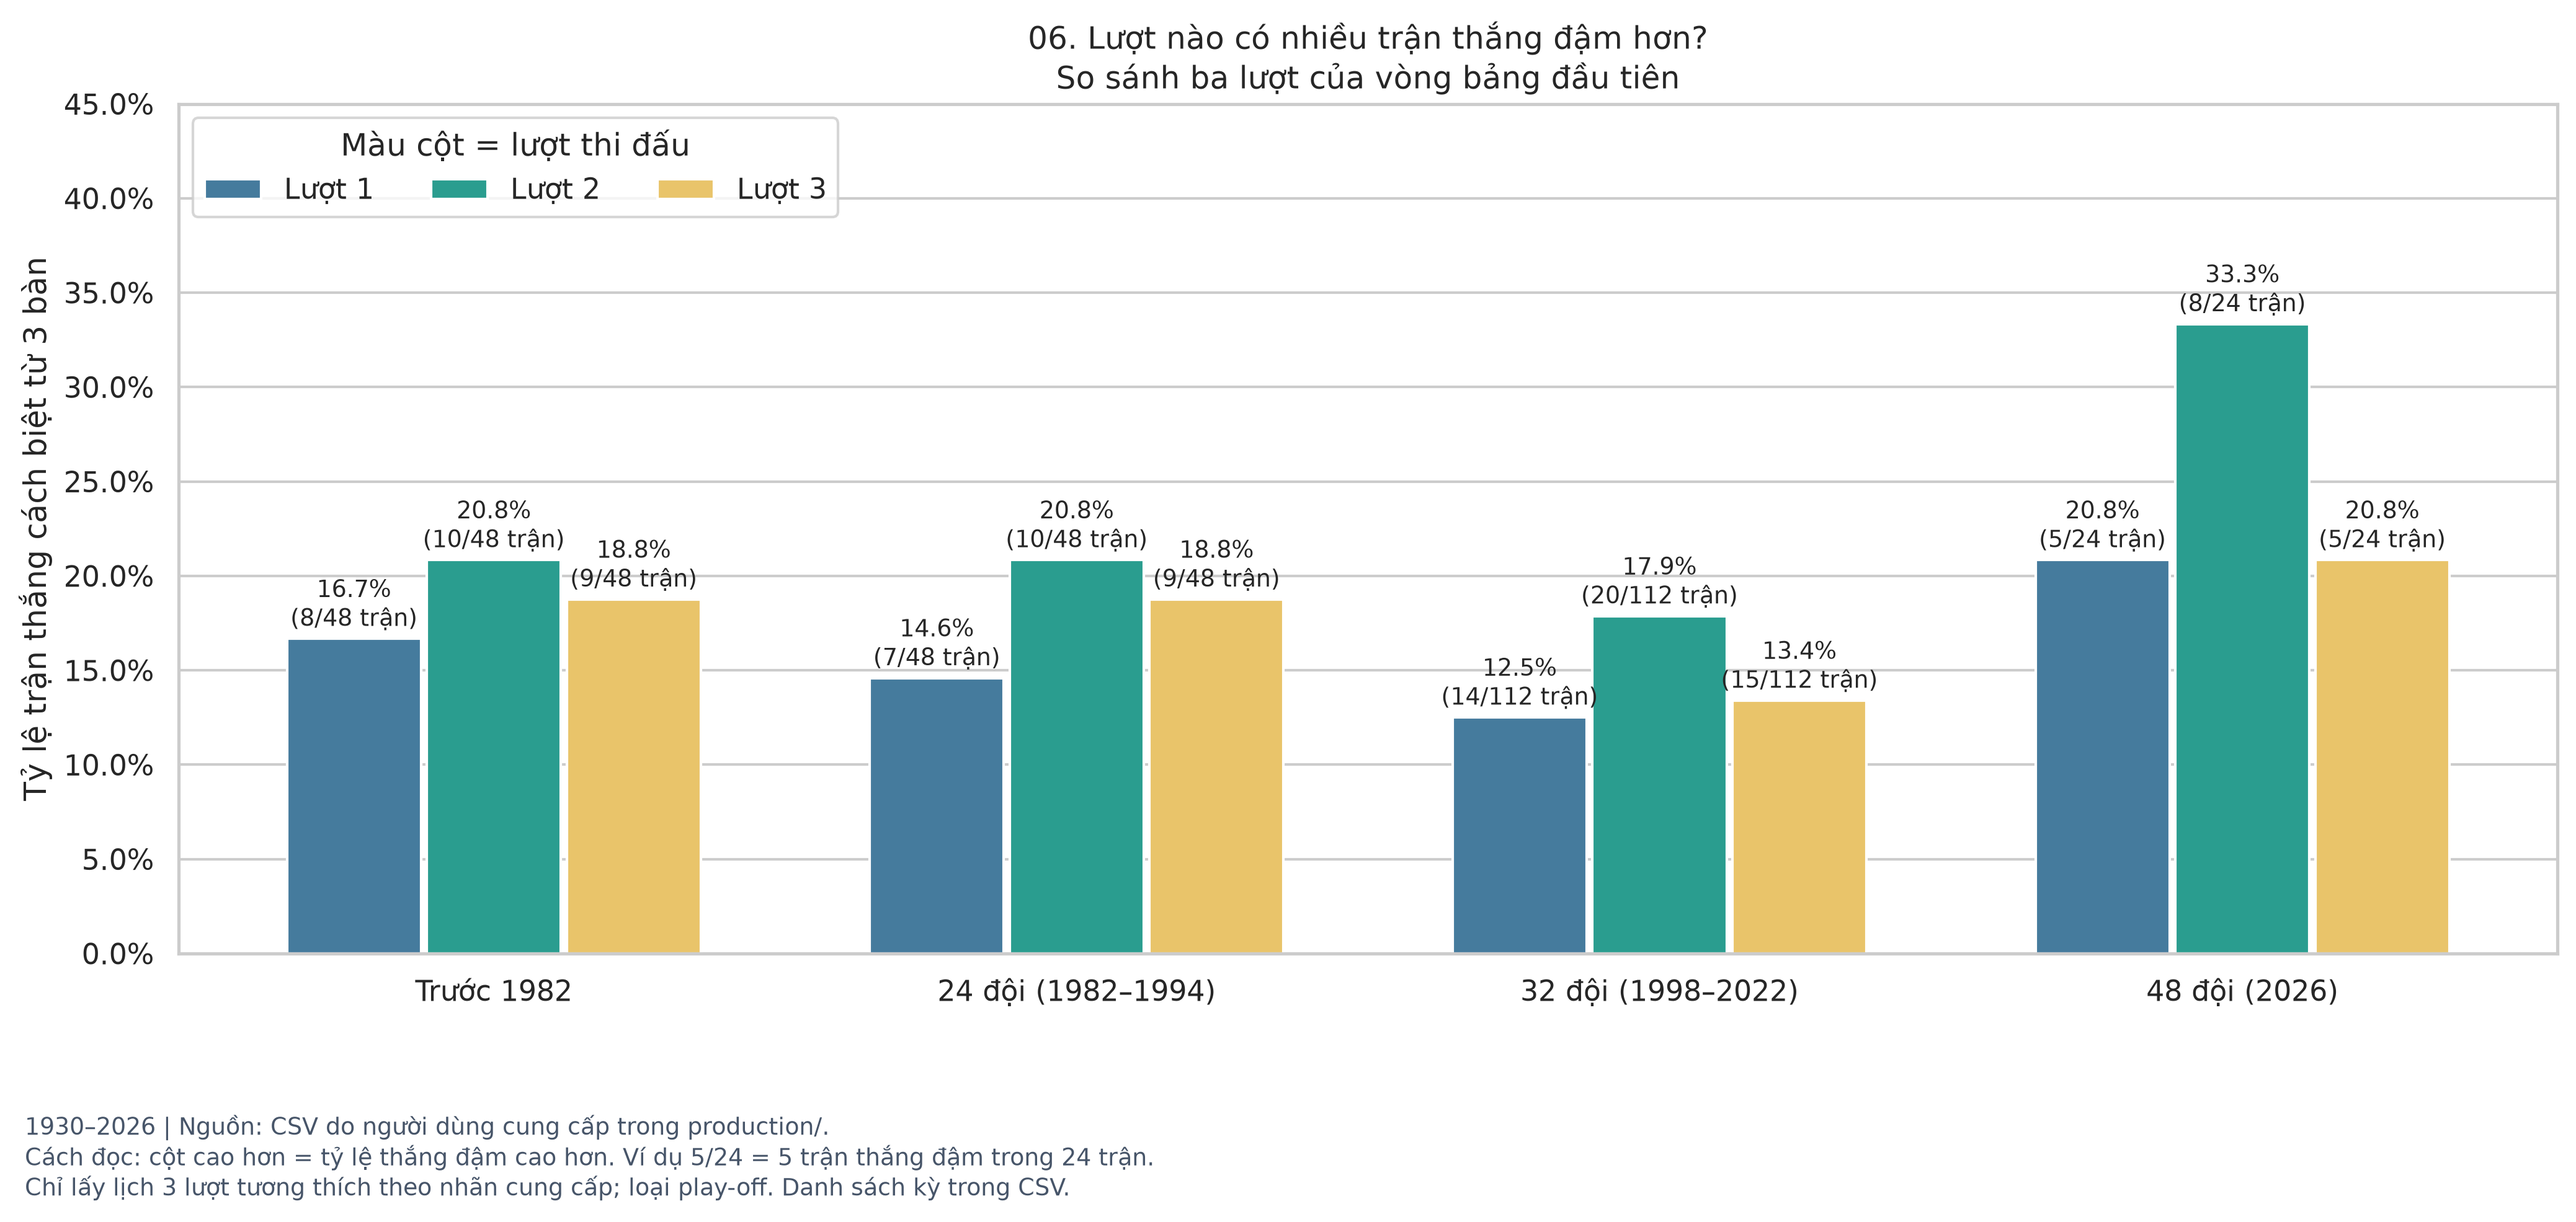
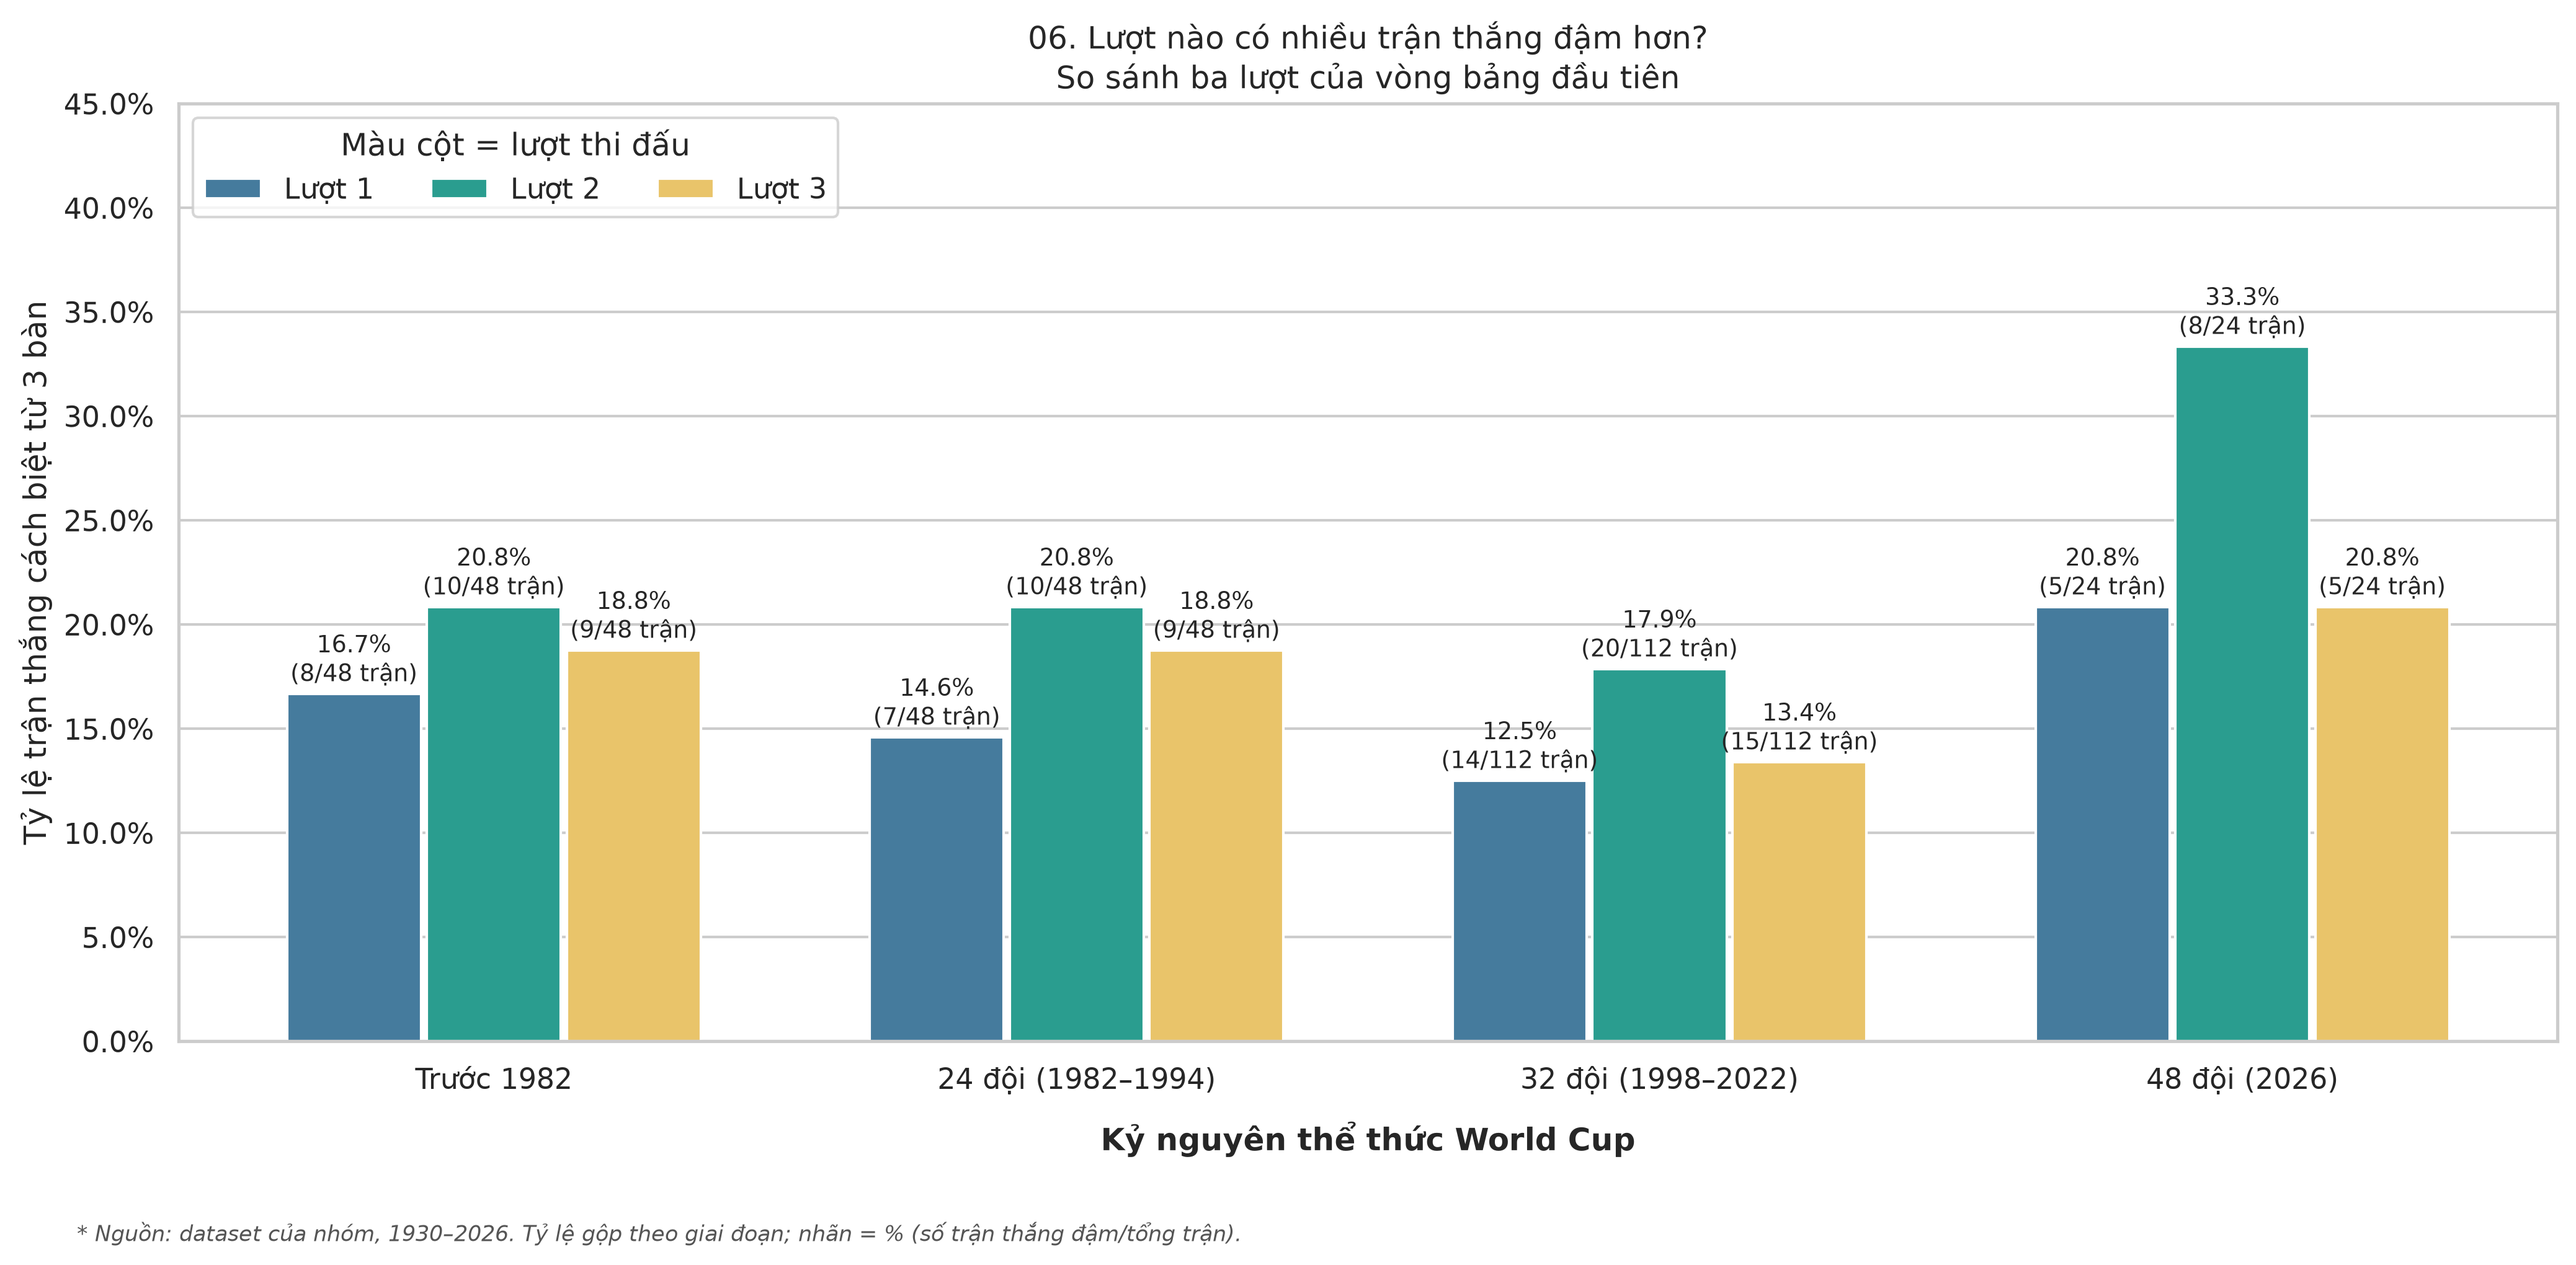
update visualization charts

diff --git a/visualization/visualize_charts_6_to_10.py b/visualization/visualize_charts_6_to_10.py
@@ -50,10 +50,20 @@ def write_table(data, name):
 
 
 def save(fig, name, note):
-    """Thêm ghi chú phạm vi/nguồn rồi xuất ảnh PNG 300 DPI."""
-    fig.text(.015, .015, '1930–2026 | Nguồn: CSV do người dùng cung cấp trong production/.\n' + note,
-             fontsize=9, va='bottom', color='#475569')
-    fig.tight_layout(rect=(0, .14, 1, .95))
+    """Chú thích một dòng theo kiểu hình 01–05; giải thích dài xem danh mục."""
+    short_notes = {
+        '06_thang_dam_theo_luot': 'Tỷ lệ gộp theo giai đoạn; nhãn = % (số trận thắng đậm/tổng trận).',
+        '07_elo_va_cach_biet': 'Elo trước giải; mỗi chấm là một trận, đường đen là trung vị theo nhóm Elo.',
+        '08_cach_phan_dinh_knockout': 'Loại tranh hạng ba và cặp đá lại; 1950 không có knockout, 1974/1978 chỉ có chung kết.',
+        '09_heatmap_qua_90_phut': 'Ô xám: không có vòng/mẫu hợp lệ; 1950 không có knockout. Nhãn = % và số trận/tổng trận.',
+        '10_cua_duoi_di_tiep': 'Cửa dưới: thấp hơn ≥100 Elo trước giải; mỗi cặp tính một lần, loại tranh hạng ba.',
+    }
+    for ax in fig.axes:
+        if ax.get_xlabel() == 'Năm tổ chức':
+            ax.set_xlabel('Năm diễn ra World Cup', fontsize=12, fontweight='bold', labelpad=9)
+    fig.tight_layout(rect=(0, .055, 1, .98))
+    fig.text(.035, .012, '* Nguồn: dataset của nhóm, 1930–2026. ' + short_notes.get(name, note.replace('\n', ' ')),
+             fontsize=8.5, fontstyle='italic', va='bottom', color='#555555')
     fig.savefig(FIGURES / f'{name}.png', dpi=300, bbox_inches='tight')
     plt.close(fig)
 
@@ -127,6 +137,7 @@ def plot_chart_6(df, first, notes):
                             xytext=(0, 5), textcoords='offset points', ha='center', fontsize=9)
     ax.set(xticks=range(len(ERAS)), xticklabels=ERAS, ylabel='Tỷ lệ trận thắng cách biệt từ 3 bàn', ylim=(0, 45),
            title='06. Lượt nào có nhiều trận thắng đậm hơn?\nSo sánh ba lượt của vòng bảng đầu tiên')
+    ax.set_xlabel('Kỷ nguyên thể thức World Cup', fontsize=12, fontweight='bold', labelpad=10)
     ax.yaxis.set_major_formatter(PercentFormatter(100))
     ax.grid(axis='x', visible=False)
     ax.legend(title='Màu cột = lượt thi đấu', loc='upper left', ncol=3)
@@ -202,11 +213,12 @@ def plot_chart_8(df, ko, years, notes):
     no_knockout_1950(ax)
     ax.set(xticks=years, ylabel='Tỷ trọng trận theo cách phân định', ylim=(0, 112),
            title='08. Các trận loại trực tiếp được phân định như thế nào?\nMỗi cột là 100% số trận hợp lệ của một kỳ World Cup')
+    ax.set_xlabel('Năm diễn ra World Cup', fontsize=12, fontweight='bold', labelpad=10)
     expansion_marks(ax)
     ax.yaxis.set_major_formatter(PercentFormatter(100))
     ax.grid(axis='x',visible=False)
     ax.tick_params(axis='x', rotation=45)
-    ax.legend(title='Màu = cách xác định đội thắng', loc='upper center', bbox_to_anchor=(.5, -.14), ncol=4, fontsize=9)
+    ax.legend(title='Màu = cách xác định đội thắng', loc='upper center', bbox_to_anchor=(.5, -.18), ncol=4, fontsize=9)
     save(fig, '08_cach_phan_dinh_knockout', f'Cách đọc: số trong mảng màu = tỷ lệ; n trên cột = số trận được tính. Loại tranh hạng ba và {sample.Category.isna().sum()} trận ngoại lệ.\n'
          '1950 đá vòng bảng chung kết, không có vòng loại trực tiếp; khoảng xám không phải tỷ lệ 0%. Nhãn 90 phút theo nguồn.')
     notes.append(f'08: ĐÃ VẼ; n hợp lệ={len(valid)}, ngoại lệ={len(sample)-len(valid)}.')
@@ -240,8 +252,7 @@ def plot_chart_9(df, ko, years, notes):
             if pd.isna(values.iloc[row,col]):
                 ax.text(col+.5,row+.5,'—',ha='center',va='center',color='#64748b',fontsize=11)
     ax.set(title='09. Ở vòng nào, trận đấu thường kéo dài quá 90 phút?\nMàu đậm hơn = tỷ lệ hiệp phụ / luân lưu cao hơn', xlabel='Năm tổ chức', ylabel='Vòng loại trực tiếp')
-    ax.legend(handles=[Patch(facecolor='#e2e8f0',label='— Không có vòng / không có mẫu hợp lệ')],
-              loc='upper left',bbox_to_anchor=(0,-.12),frameon=True)
+    # Ý nghĩa ô xám được ghi ngay trong dòng chú thích; tránh lặp một legend riêng.
     save(fig, '09_heatmap_qua_90_phut', 'Cách đọc ô: 25% và 1/4 nghĩa là 1 trong 4 trận kéo dài quá 90 phút; 0% nghĩa là có trận nhưng không có hiệp phụ.\n'
          'Ô xám không phải 0%. Năm 1950 không có knockout; R32 chỉ có năm 2026. Gồm bàn thắng vàng; loại tranh hạng ba và cặp đá lại.')
     notes.append(f'09: ĐÃ VẼ; cùng mẫu hợp lệ n={len(valid)}; bảng có n theo ô.')
@@ -358,7 +369,7 @@ def plot_chart_10(df, ko, years, notes):
     ax.grid(axis='x',visible=False)
     ax.legend(handles=[Line2D([],[],marker='o',color='none',markerfacecolor='#1b4965',markeredgecolor='#1b4965',label='Tỷ lệ quan sát (ít nhất 5 cặp)'),
         Line2D([],[],marker='o',color='none',markerfacecolor='white',markeredgecolor='#1b4965',label='Dưới 5 cặp: mẫu nhỏ'),
-        Line2D([],[],color='#94a3b8',marker='_',label='Thanh xám: khoảng tin cậy 95%')],loc='upper left',bbox_to_anchor=(0,-.15),ncol=3,fontsize=9)
+        Line2D([],[],color='#94a3b8',marker='_',label='Thanh xám: khoảng tin cậy 95%')],loc='upper left',bbox_to_anchor=(0,-.10),ncol=3,fontsize=9)
     ax.tick_params(axis='x', rotation=45)
     save(fig, '10_cua_duoi_di_tiep', 'Cách đọc: 23% (3/13) = 3 lần cửa dưới đi tiếp trong 13 cặp đủ điều kiện. Thanh dài hơn = ước lượng kém chắc chắn hơn.\n'
         'Mỗi cặp chỉ tính một lần, gồm kết quả đá lại; loại tranh hạng ba. Khoảng tin cậy Wilson 95%; 1950 không có knockout. Ngưỡng 50/150 trong CSV.')
@@ -371,7 +382,7 @@ def main():
     TABLES.mkdir(exist_ok=True)
     sns.set_theme(style='whitegrid', font='DejaVu Sans')
     inputs = list((ROOT / 'production').glob('*.csv')) + [OUT / 'README.md']
-    original = {p: hashlib.sha256(p.read_bytes()).digest() for p in inputs}
+    original = {p: hashlib.sha256(p.read_bytes()).digest() for p in inputs if p.is_file()}
     df = pd.read_csv(ROOT / 'production/worldcup_master_cleaned.csv')
     df = df[df.Year.between(1930, 2026)].copy()
     df['Era'] = np.select([df.Year.lt(1982), df.Year.le(1994), df.Year.le(2022)], ERAS[:3], default=ERAS[3])
@@ -393,7 +404,7 @@ def main():
     # Vẽ hình 10 bằng Elo trước giải và kết quả cuối từng cặp.
     plot_chart_10(df, ko, years, notes)
     assert all(hashlib.sha256(p.read_bytes()).digest() == digest for p, digest in original.items()), 'Input changed'
-    notes.append('Đã kiểm tra SHA-256: tất cả CSV production và visualization/README.md giữ nguyên.')
+    notes.append('Đã kiểm tra SHA-256: CSV production và README (nếu có) giữ nguyên.')
     # Giữ danh mục giải thích 10 hình; nhật ký kỹ thuật xuất sang tệp riêng.
     (OUT / 'trang_thai_xuat_bieu_do.txt').write_text('\n'.join(notes)+'\n', encoding='utf-8')
     print('\n'.join(notes))

diff --git a/visualization/export_report_charts.py b/visualization/export_report_charts.py
@@ -1,0 +1,120 @@
+"""Export the existing ten charts without outer titles, conclusions or footnotes.
+
+Run: python visualization/export_report_charts.py
+Original chart scripts, PNGs, tables and source data are never overwritten.
+This renders the existing plot functions; it does not crop or edit raster images.
+"""
+from pathlib import Path
+import hashlib
+import sys
+
+import matplotlib
+matplotlib.use('Agg')
+from matplotlib.figure import Figure
+import numpy as np
+import pandas as pd
+
+HERE = Path(__file__).resolve().parent
+ROOT = HERE.parent
+OUTPUT = HERE / 'figures_report'
+sys.path.insert(0, str(HERE))
+import visualize_charts_1_to_5 as first
+import visualize_charts_6_to_10 as last
+
+NAMES = {
+    'chart_1_quy_mo_vs_khan_gia': '01_quy_mo_va_khan_gia',
+    'chart_2_suc_hut_theo_vong': '02_khan_gia_theo_vong',
+    'chart_3_phan_phoi_lap_day_san': '03_ty_le_lap_day_san',
+    'chart_4_co_cau_cach_biet_vong_bang': '04_co_cau_cach_biet',
+    'chart_5_ty_le_thang_dam_bang_vs_knockout': '05_thang_dam_theo_vong',
+    '06_thang_dam_theo_luot': '06_thang_dam_theo_luot',
+    '07_elo_va_cach_biet': '07_elo_va_cach_biet',
+    '08_cach_phan_dinh_knockout': '08_cach_phan_dinh_knockout',
+    '09_heatmap_qua_90_phut': '09_heatmap_qua_90_phut',
+    '10_cua_duoi_di_tiep': '10_cua_duoi_di_tiep',
+}
+
+
+def data_signature(fig):
+    """Check that removing decorations leaves all plotted numeric marks unchanged."""
+    marks = []
+    for ax in fig.axes:
+        marks.append((ax.get_xlim(), ax.get_ylim(), ax.get_xlabel(), ax.get_ylabel()))
+        for line in ax.lines:
+            marks.append((repr(line.get_xdata()), repr(line.get_ydata())))
+        for patch in ax.patches:
+            marks.append(repr(patch.get_path().vertices))
+        for collection in ax.collections:
+            marks.append((repr(collection.get_offsets()), repr(collection.get_array())))
+    return hashlib.sha256(repr(marks).encode('utf-8')).hexdigest()
+
+
+def main():
+    OUTPUT.mkdir(exist_ok=True)
+    protected = list((ROOT/'production').glob('*.csv')) + list((HERE/'tables').glob('*.csv'))
+    protected += list(HERE.glob('chart_*.png')) + list((HERE/'figures').glob('*.png'))
+    protected += list((ROOT/'reports').glob('*.docx'))
+    original = {p: hashlib.sha256(p.read_bytes()).digest() for p in protected}
+    savefig = Figure.savefig
+    write_table = last.write_table
+    exported = []
+
+    def clean_save(fig, filename, *args, **kwargs):
+        stem = Path(filename).stem
+        if stem not in NAMES:
+            raise ValueError(f'Unexpected figure: {stem}')
+        # Hide only the redundant X-axis heading, not tick labels or data.
+        for ax in fig.axes:
+            if ax.get_xlabel().strip().casefold().startswith((
+                'kỷ nguyên thể thức world cup', 'kỉ nguyên thể thức world cup',
+                'năm diễn ra world cup',
+            )):
+                ax.set_xlabel('')
+        before = data_signature(fig)
+        # All figure-level text is an outer heading or footnote in these scripts.
+        for text in list(fig.texts):
+            text.remove()
+        fig._suptitle = None
+        # Keep chart 07's panel labels: they identify eras and correlation samples.
+        for ax in fig.axes:
+            if stem != '07_elo_va_cach_biet':
+                ax.set_title('')
+                ax.set_title('', loc='left')
+                ax.set_title('', loc='right')
+        fig.tight_layout(pad=.8, rect=(0, 0, 1, 1))
+        assert data_signature(fig) == before, f'Plotted data changed: {stem}'
+        target = OUTPUT / (NAMES[stem]+'.png')
+        savefig(fig, target, dpi=300, bbox_inches='tight', pad_inches=.08)
+        exported.append(target.name)
+        print(f'Exported: {target.name}')
+
+    try:
+        Figure.savefig = clean_save
+        # Calculations remain identical; do not rewrite the source chart tables.
+        last.write_table = lambda *args, **kwargs: None
+        for plot in [first.plot_chart_1, first.plot_chart_2, first.plot_chart_3,
+                     first.plot_chart_4, first.plot_chart_5]:
+            plot()
+        last.sns.set_theme(style='whitegrid', font='DejaVu Sans')
+        df = pd.read_csv(ROOT/'production/worldcup_master_cleaned.csv')
+        df = df[df.Year.between(1930, 2026)].copy()
+        df['Era'] = np.select([df.Year.lt(1982), df.Year.le(1994), df.Year.le(2022)],
+                              last.ERAS[:3], default=last.ERAS[3])
+        first_group, knockout = last.stage_filters(df)
+        years = sorted(df.Year.unique())
+        notes = []
+        last.plot_chart_6(df, first_group, notes)
+        last.plot_chart_7(df, first_group, notes)
+        last.plot_chart_8(df, knockout, years, notes)
+        last.plot_chart_9(df, knockout, years, notes)
+        last.plot_chart_10(df, knockout, years, notes)
+    finally:
+        Figure.savefig = savefig
+        last.write_table = write_table
+    assert len(exported) == 10 and len(set(exported)) == 10
+    assert all(hashlib.sha256(p.read_bytes()).digest() == digest for p,digest in original.items())
+    print('PASS: 10 clean PNGs; plotted values, axes, original PNGs, tables, source CSVs and Word reports unchanged.')
+
+
+if __name__ == '__main__':
+    main()
